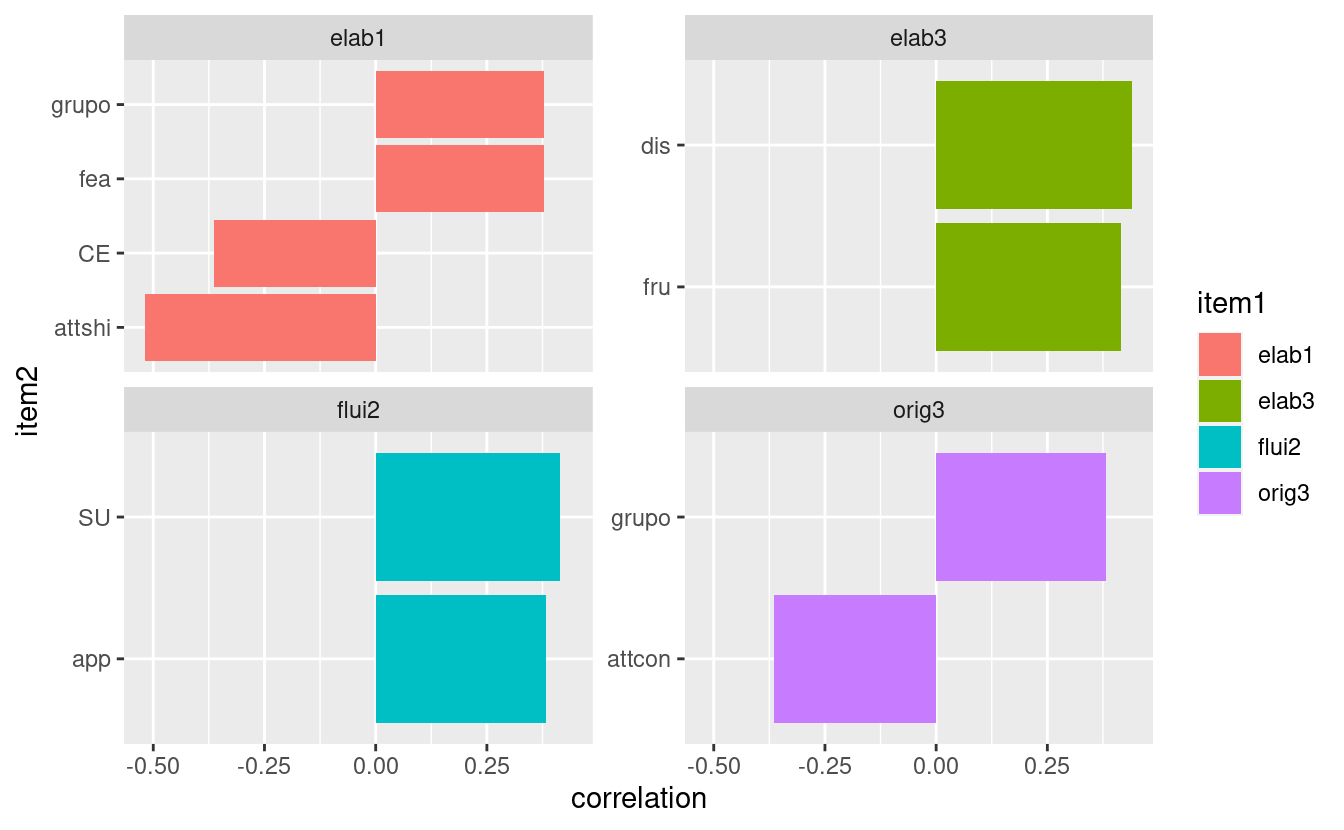
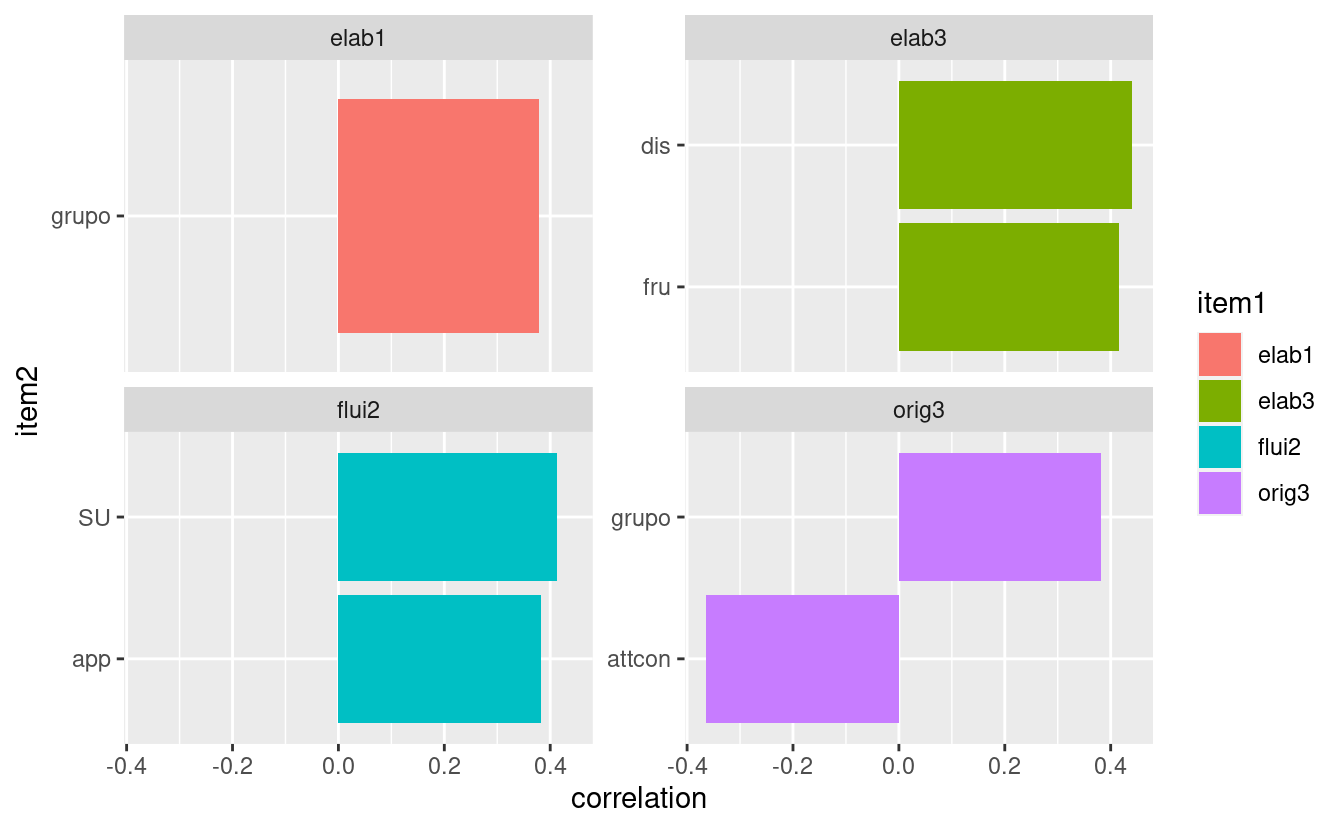
site update

diff --git a/docs/_site/2022/09/06/correlaciones-por-pares/index.html b/docs/_site/2022/09/06/correlaciones-por-pares/index.html
@@ -75,112 +75,39 @@
 
     <div class="article-content">
       <h1 id="paired-correlations">PAIRED CORRELATIONS</h1>
-<h2 id="grouped-by-torrance">Grouped by Torrance</h2>
-<div class="highlight">
-<p><img src="figs/torrance_paired_correlations_graph-1.png" width="700px" style="display: block; margin: auto;" /></p>
-</div>
-<h2 id="grouped-by-temperament-raven-and-other-variables">Grouped by Temperament, Raven and Other Variables</h2>
-<div class="highlight">
-<p><img src="figs/nontor_paired_correlations_graph-1.png" width="700px" style="display: block; margin: auto;" /></p>
-</div>
 <h1 id="correlation-matrix">Correlation Matrix</h1>
 <div class="highlight">
-<pre class='chroma'><code class='language-r' data-lang='r'><span><span class='c'>#&gt;            orig1       elab1      orig2      flui2      elab2      flex2</span></span>
-<span><span class='c'>#&gt; CE            NA 0.048429202 0.40050026 0.60702460 0.38508135 0.84046308</span></span>
-<span><span class='c'>#&gt; AN            NA 0.271613533 0.54860454 0.75701005 0.40000492 0.80196876</span></span>
-<span><span class='c'>#&gt; SU            NA 0.337593888 0.07248363 0.02249742 0.86490853 0.17210113</span></span>
-<span><span class='c'>#&gt; act           NA 0.306321959 0.12479909 0.15343998 0.83510919 0.94768821</span></span>
-<span><span class='c'>#&gt; fru           NA 0.413266984 0.68841655 0.54379053 0.14108578 0.65619386</span></span>
-<span><span class='c'>#&gt; app           NA 0.994075403 0.19152605 0.03679491 0.73596659 0.14006839</span></span>
-<span><span class='c'>#&gt; attfoc        NA 0.630294693 0.60895048 0.79285568 0.73321085 0.73812586</span></span>
-<span><span class='c'>#&gt; attshi        NA 0.003385515 0.23166572 0.11647367 0.56578965 0.22489352</span></span>
-<span><span class='c'>#&gt; attcon        NA 0.058291714 0.30092357 0.29603831 0.57579929 0.36290690</span></span>
-<span><span class='c'>#&gt; dis           NA 0.411367106 0.36217603 0.46978220 0.05203187 0.96134398</span></span>
-<span><span class='c'>#&gt; sth           NA 0.323644160 0.12925173 0.07892281 0.44396298 0.76448800</span></span>
-<span><span class='c'>#&gt; fea           NA 0.039158180 0.68686931 0.94018709 0.46607729 0.55982018</span></span>
-<span><span class='c'>#&gt; hip           NA 0.155905524 0.07951774 0.17371785 0.85283098 0.40986799</span></span>
-<span><span class='c'>#&gt; imp           NA 0.217233423 0.17494475 0.12325237 0.77470473 0.75898155</span></span>
-<span><span class='c'>#&gt; inh           NA 0.232874180 0.39167080 0.54721125 0.14643113 0.85477794</span></span>
-<span><span class='c'>#&gt; lip           NA 0.839533739 0.67739040 0.96962741 0.41579689 0.54570867</span></span>
-<span><span class='c'>#&gt; per           NA 0.564804644 0.36628355 0.06791328 0.70216634 0.23619353</span></span>
-<span><span class='c'>#&gt; sad           NA 0.919715692 0.20581391 0.29448897 0.89658419 0.49094321</span></span>
-<span><span class='c'>#&gt; shy           NA 0.179449276 0.78691623 0.45208589 0.34518483 0.12621222</span></span>
-<span><span class='c'>#&gt; smi           NA 0.132133325 0.62026238 0.99099420 0.08344986 0.77200729</span></span>
-<span><span class='c'>#&gt; escuela       NA 0.178349185 0.88347013 0.63885320 0.33516126 0.78182750</span></span>
-<span><span class='c'>#&gt; grupo         NA 0.038732668 0.55728772 0.44023044 0.21069945 0.92971638</span></span>
-<span><span class='c'>#&gt; edad          NA 0.835019211 0.68492840 0.59497504 0.13414768 0.85493166</span></span>
-<span><span class='c'>#&gt; sexo          NA 0.165770645 0.14336290 0.34829488 0.07131034 0.07720023</span></span>
-<span><span class='c'>#&gt; percentil     NA 0.466851119 0.34203613 0.16266109 0.36784646 0.84414281</span></span>
-<span><span class='c'>#&gt; rango         NA 0.579441803 0.23954922 0.15403184 0.40388678 0.63899268</span></span>
-<span><span class='c'>#&gt; columna_a     NA 0.415248494 0.11784062 0.10125517 0.72288837 0.18369481</span></span>
-<span><span class='c'>#&gt; columna_ab    NA 0.400944734 0.44367726 0.48419530 0.10903801 0.87556575</span></span>
-<span><span class='c'>#&gt; columna_b     NA 0.641550355 0.97328571 0.72555997 0.82705562 0.64977471</span></span>
-<span><span class='c'>#&gt; puntaje       NA 0.525206411 0.27417713 0.22245358 0.22535564 0.54192527</span></span>
-<span><span class='c'>#&gt;                 orig3     flui3      elab3     flex3</span></span>
-<span><span class='c'>#&gt; CE         0.17302705 0.1225536 0.52233121 0.4591893</span></span>
-<span><span class='c'>#&gt; AN         0.49296547 0.6337643 0.18334953 0.3505472</span></span>
-<span><span class='c'>#&gt; SU         0.92144613 0.5515607 0.66788767 0.3954747</span></span>
-<span><span class='c'>#&gt; act        0.69270673 0.7564842 0.72456501 0.5177286</span></span>
-<span><span class='c'>#&gt; fru        0.99606282 0.9596272 0.02227746 0.7471596</span></span>
-<span><span class='c'>#&gt; app        0.33022695 0.3456013 0.44025997 0.9215413</span></span>
-<span><span class='c'>#&gt; attfoc     0.07054985 0.2336345 0.70168885 0.6772719</span></span>
-<span><span class='c'>#&gt; attshi     0.24017888 0.1620745 0.87592565 0.1975753</span></span>
-<span><span class='c'>#&gt; attcon     0.04761170 0.1005084 0.71868478 0.3165394</span></span>
-<span><span class='c'>#&gt; dis        0.35227834 0.6403167 0.01492814 0.2358629</span></span>
-<span><span class='c'>#&gt; sth        0.13911352 0.1868955 0.45988647 0.1668411</span></span>
-<span><span class='c'>#&gt; fea        0.10268227 0.1786334 0.23058040 0.2864963</span></span>
-<span><span class='c'>#&gt; hip        0.72811086 0.4813129 0.81108738 0.6628628</span></span>
-<span><span class='c'>#&gt; imp        0.63573693 0.8203725 0.79324943 0.9381510</span></span>
-<span><span class='c'>#&gt; inh        0.34931492 0.1180668 0.07101536 0.8026334</span></span>
-<span><span class='c'>#&gt; lip        0.84167404 0.7774568 0.49011697 0.6509855</span></span>
-<span><span class='c'>#&gt; per        0.47262187 0.8450693 0.37939627 0.8794740</span></span>
-<span><span class='c'>#&gt; sad        0.49888850 0.5757836 0.71848313 0.7631338</span></span>
-<span><span class='c'>#&gt; shy        0.10593576 0.2315294 0.68219197 0.2550656</span></span>
-<span><span class='c'>#&gt; smi        0.40938715 0.9424463 0.82613677 0.9390234</span></span>
-<span><span class='c'>#&gt; escuela    0.10682878 0.3130760 0.35922559 0.2209900</span></span>
-<span><span class='c'>#&gt; grupo      0.03726370 0.3046541 0.54152140 0.1935974</span></span>
-<span><span class='c'>#&gt; edad       0.94499465 0.1343969 0.24740297 0.4040723</span></span>
-<span><span class='c'>#&gt; sexo       0.65489056 0.3796209 0.15611096 0.6753914</span></span>
-<span><span class='c'>#&gt; percentil  0.87643144 0.4846394 0.16245114 0.9923595</span></span>
-<span><span class='c'>#&gt; rango      0.82840860 0.4424734 0.24950324 0.9565257</span></span>
-<span><span class='c'>#&gt; columna_a  0.74995407 0.5010882 0.40956580 0.7040131</span></span>
-<span><span class='c'>#&gt; columna_ab 0.64468488 0.9835957 0.25398732 0.4286248</span></span>
-<span><span class='c'>#&gt; columna_b  0.57461370 0.6547052 0.64542870 0.8276008</span></span>
-<span><span class='c'>#&gt; puntaje    0.86511985 0.6599027 0.21972738 0.6670841</span></span></code></pre>
-</div>
-<h1 id="p-values-matrix">P-values Matrix</h1>
-<div class="highlight">
-<pre class='chroma'><code class='language-r' data-lang='r'><span><span class='c'>#&gt;            orig1      elab1 orig2     flui2 elab2 flex2      orig3 flui3</span></span>
-<span><span class='c'>#&gt; CE            NA -0.3633421    NA        NA    NA    NA         NA    NA</span></span>
-<span><span class='c'>#&gt; AN            NA         NA    NA        NA    NA    NA         NA    NA</span></span>
-<span><span class='c'>#&gt; SU            NA         NA    NA 0.4152417    NA    NA         NA    NA</span></span>
-<span><span class='c'>#&gt; act           NA         NA    NA        NA    NA    NA         NA    NA</span></span>
-<span><span class='c'>#&gt; fru           NA         NA    NA        NA    NA    NA         NA    NA</span></span>
-<span><span class='c'>#&gt; app           NA         NA    NA 0.3828280    NA    NA         NA    NA</span></span>
-<span><span class='c'>#&gt; attfoc        NA         NA    NA        NA    NA    NA         NA    NA</span></span>
-<span><span class='c'>#&gt; attshi        NA -0.5177472    NA        NA    NA    NA         NA    NA</span></span>
-<span><span class='c'>#&gt; attcon        NA         NA    NA        NA    NA    NA -0.3645813    NA</span></span>
-<span><span class='c'>#&gt; dis           NA         NA    NA        NA    NA    NA         NA    NA</span></span>
-<span><span class='c'>#&gt; sth           NA         NA    NA        NA    NA    NA         NA    NA</span></span>
-<span><span class='c'>#&gt; fea           NA  0.3785062    NA        NA    NA    NA         NA    NA</span></span>
-<span><span class='c'>#&gt; hip           NA         NA    NA        NA    NA    NA         NA    NA</span></span>
-<span><span class='c'>#&gt; imp           NA         NA    NA        NA    NA    NA         NA    NA</span></span>
-<span><span class='c'>#&gt; inh           NA         NA    NA        NA    NA    NA         NA    NA</span></span>
-<span><span class='c'>#&gt; lip           NA         NA    NA        NA    NA    NA         NA    NA</span></span>
-<span><span class='c'>#&gt; per           NA         NA    NA        NA    NA    NA         NA    NA</span></span>
-<span><span class='c'>#&gt; sad           NA         NA    NA        NA    NA    NA         NA    NA</span></span>
-<span><span class='c'>#&gt; shy           NA         NA    NA        NA    NA    NA         NA    NA</span></span>
-<span><span class='c'>#&gt; smi           NA         NA    NA        NA    NA    NA         NA    NA</span></span>
-<span><span class='c'>#&gt; escuela       NA         NA    NA        NA    NA    NA         NA    NA</span></span>
-<span><span class='c'>#&gt; grupo         NA  0.3792686    NA        NA    NA    NA  0.3819533    NA</span></span>
-<span><span class='c'>#&gt; edad          NA         NA    NA        NA    NA    NA         NA    NA</span></span>
-<span><span class='c'>#&gt; sexo          NA         NA    NA        NA    NA    NA         NA    NA</span></span>
-<span><span class='c'>#&gt; percentil     NA         NA    NA        NA    NA    NA         NA    NA</span></span>
-<span><span class='c'>#&gt; rango         NA         NA    NA        NA    NA    NA         NA    NA</span></span>
-<span><span class='c'>#&gt; columna_a     NA         NA    NA        NA    NA    NA         NA    NA</span></span>
-<span><span class='c'>#&gt; columna_ab    NA         NA    NA        NA    NA    NA         NA    NA</span></span>
-<span><span class='c'>#&gt; columna_b     NA         NA    NA        NA    NA    NA         NA    NA</span></span>
-<span><span class='c'>#&gt; puntaje       NA         NA    NA        NA    NA    NA         NA    NA</span></span>
+<pre class='chroma'><code class='language-r' data-lang='r'><span><span class='c'>#&gt;            orig1     elab1 orig2     flui2 elab2 flex2      orig3 flui3</span></span>
+<span><span class='c'>#&gt; CE            NA        NA    NA        NA    NA    NA         NA    NA</span></span>
+<span><span class='c'>#&gt; AN            NA        NA    NA        NA    NA    NA         NA    NA</span></span>
+<span><span class='c'>#&gt; SU            NA        NA    NA 0.4133396    NA    NA         NA    NA</span></span>
+<span><span class='c'>#&gt; act           NA        NA    NA        NA    NA    NA         NA    NA</span></span>
+<span><span class='c'>#&gt; fru           NA        NA    NA        NA    NA    NA         NA    NA</span></span>
+<span><span class='c'>#&gt; app           NA        NA    NA 0.3828280    NA    NA         NA    NA</span></span>
+<span><span class='c'>#&gt; attfoc        NA        NA    NA        NA    NA    NA         NA    NA</span></span>
+<span><span class='c'>#&gt; attshi        NA        NA    NA        NA    NA    NA         NA    NA</span></span>
+<span><span class='c'>#&gt; attcon        NA        NA    NA        NA    NA    NA -0.3645813    NA</span></span>
+<span><span class='c'>#&gt; dis           NA        NA    NA        NA    NA    NA         NA    NA</span></span>
+<span><span class='c'>#&gt; sth           NA        NA    NA        NA    NA    NA         NA    NA</span></span>
+<span><span class='c'>#&gt; fea           NA        NA    NA        NA    NA    NA         NA    NA</span></span>
+<span><span class='c'>#&gt; hip           NA        NA    NA        NA    NA    NA         NA    NA</span></span>
+<span><span class='c'>#&gt; imp           NA        NA    NA        NA    NA    NA         NA    NA</span></span>
+<span><span class='c'>#&gt; inh           NA        NA    NA        NA    NA    NA         NA    NA</span></span>
+<span><span class='c'>#&gt; lip           NA        NA    NA        NA    NA    NA         NA    NA</span></span>
+<span><span class='c'>#&gt; per           NA        NA    NA        NA    NA    NA         NA    NA</span></span>
+<span><span class='c'>#&gt; sad           NA        NA    NA        NA    NA    NA         NA    NA</span></span>
+<span><span class='c'>#&gt; shy           NA        NA    NA        NA    NA    NA         NA    NA</span></span>
+<span><span class='c'>#&gt; smi           NA        NA    NA        NA    NA    NA         NA    NA</span></span>
+<span><span class='c'>#&gt; escuela       NA        NA    NA        NA    NA    NA         NA    NA</span></span>
+<span><span class='c'>#&gt; grupo         NA 0.3792686    NA        NA    NA    NA  0.3819533    NA</span></span>
+<span><span class='c'>#&gt; edad          NA        NA    NA        NA    NA    NA         NA    NA</span></span>
+<span><span class='c'>#&gt; sexo          NA        NA    NA        NA    NA    NA         NA    NA</span></span>
+<span><span class='c'>#&gt; percentil     NA        NA    NA        NA    NA    NA         NA    NA</span></span>
+<span><span class='c'>#&gt; rango         NA        NA    NA        NA    NA    NA         NA    NA</span></span>
+<span><span class='c'>#&gt; columna_a     NA        NA    NA        NA    NA    NA         NA    NA</span></span>
+<span><span class='c'>#&gt; columna_ab    NA        NA    NA        NA    NA    NA         NA    NA</span></span>
+<span><span class='c'>#&gt; columna_b     NA        NA    NA        NA    NA    NA         NA    NA</span></span>
+<span><span class='c'>#&gt; puntaje       NA        NA    NA        NA    NA    NA         NA    NA</span></span>
 <span><span class='c'>#&gt;                elab3 flex3</span></span>
 <span><span class='c'>#&gt; CE                NA    NA</span></span>
 <span><span class='c'>#&gt; AN                NA    NA</span></span>
@@ -212,6 +139,80 @@
 <span><span class='c'>#&gt; columna_ab        NA    NA</span></span>
 <span><span class='c'>#&gt; columna_b         NA    NA</span></span>
 <span><span class='c'>#&gt; puntaje           NA    NA</span></span></code></pre>
+</div>
+<h1 id="p-values-matrix">P-values Matrix</h1>
+<div class="highlight">
+<pre class='chroma'><code class='language-r' data-lang='r'><span><span class='c'>#&gt;            orig1      elab1      orig2      flui2      elab2      flex2</span></span>
+<span><span class='c'>#&gt; CE            NA 0.15039290 0.38664151 0.46844047 0.26788309 0.63704423</span></span>
+<span><span class='c'>#&gt; AN            NA 0.14778990 0.46366589 0.64176916 0.32231741 0.93298263</span></span>
+<span><span class='c'>#&gt; SU            NA 0.53646028 0.08766905 0.02318568 0.79392837 0.15129912</span></span>
+<span><span class='c'>#&gt; act           NA 0.30632196 0.12479909 0.15343998 0.83510919 0.94768821</span></span>
+<span><span class='c'>#&gt; fru           NA 0.41326698 0.68841655 0.54379053 0.14108578 0.65619386</span></span>
+<span><span class='c'>#&gt; app           NA 0.99407540 0.19152605 0.03679491 0.73596659 0.14006839</span></span>
+<span><span class='c'>#&gt; attfoc        NA 0.63029469 0.60895048 0.79285568 0.73321085 0.73812586</span></span>
+<span><span class='c'>#&gt; attshi        NA 0.24656434 0.33738662 0.24438271 0.66214560 0.29148602</span></span>
+<span><span class='c'>#&gt; attcon        NA 0.05829171 0.30092357 0.29603831 0.57579929 0.36290690</span></span>
+<span><span class='c'>#&gt; dis           NA 0.41136711 0.36217603 0.46978220 0.05203187 0.96134398</span></span>
+<span><span class='c'>#&gt; sth           NA 0.49072723 0.31384801 0.18437525 0.20615759 0.96859184</span></span>
+<span><span class='c'>#&gt; fea           NA 0.09211158 0.97231899 0.73869579 0.95841071 0.56898341</span></span>
+<span><span class='c'>#&gt; hip           NA 0.15590552 0.07951774 0.17371785 0.85283098 0.40986799</span></span>
+<span><span class='c'>#&gt; imp           NA 0.66786199 0.76786527 0.58214651 0.09156974 0.80192122</span></span>
+<span><span class='c'>#&gt; inh           NA 0.23287418 0.39167080 0.54721125 0.14643113 0.85477794</span></span>
+<span><span class='c'>#&gt; lip           NA 0.66222324 0.69640815 0.98808233 0.36761358 0.59249052</span></span>
+<span><span class='c'>#&gt; per           NA 0.61483124 0.52262160 0.56740011 0.41857896 0.88925860</span></span>
+<span><span class='c'>#&gt; sad           NA 0.91971569 0.20581391 0.29448897 0.89658419 0.49094321</span></span>
+<span><span class='c'>#&gt; shy           NA 0.17944928 0.78691623 0.45208589 0.34518483 0.12621222</span></span>
+<span><span class='c'>#&gt; smi           NA 0.13213332 0.62026238 0.99099420 0.08344986 0.77200729</span></span>
+<span><span class='c'>#&gt; escuela       NA 0.17834919 0.88347013 0.63885320 0.33516126 0.78182750</span></span>
+<span><span class='c'>#&gt; grupo         NA 0.03873267 0.55728772 0.44023044 0.21069945 0.92971638</span></span>
+<span><span class='c'>#&gt; edad          NA 0.83501921 0.68492840 0.59497504 0.13414768 0.85493166</span></span>
+<span><span class='c'>#&gt; sexo          NA 0.16577065 0.14336290 0.34829488 0.07131034 0.07720023</span></span>
+<span><span class='c'>#&gt; percentil     NA 0.46685112 0.34203613 0.16266109 0.36784646 0.84414281</span></span>
+<span><span class='c'>#&gt; rango         NA 0.57944180 0.23954922 0.15403184 0.40388678 0.63899268</span></span>
+<span><span class='c'>#&gt; columna_a     NA 0.41524849 0.11784062 0.10125517 0.72288837 0.18369481</span></span>
+<span><span class='c'>#&gt; columna_ab    NA 0.40094473 0.44367726 0.48419530 0.10903801 0.87556575</span></span>
+<span><span class='c'>#&gt; columna_b     NA 0.64155035 0.97328571 0.72555997 0.82705562 0.64977471</span></span>
+<span><span class='c'>#&gt; puntaje       NA 0.52520641 0.27417713 0.22245358 0.22535564 0.54192527</span></span>
+<span><span class='c'>#&gt;                 orig3     flui3      elab3     flex3</span></span>
+<span><span class='c'>#&gt; CE         0.15887853 0.1124744 0.22761519 0.4190169</span></span>
+<span><span class='c'>#&gt; AN         0.49577673 0.6519436 0.21396669 0.3072149</span></span>
+<span><span class='c'>#&gt; SU         0.89849533 0.5376285 0.51136082 0.2891203</span></span>
+<span><span class='c'>#&gt; act        0.69270673 0.7564842 0.72456501 0.5177286</span></span>
+<span><span class='c'>#&gt; fru        0.99606282 0.9596272 0.02227746 0.7471596</span></span>
+<span><span class='c'>#&gt; app        0.33022695 0.3456013 0.44025997 0.9215413</span></span>
+<span><span class='c'>#&gt; attfoc     0.07054985 0.2336345 0.70168885 0.6772719</span></span>
+<span><span class='c'>#&gt; attshi     0.41905168 0.3331625 0.36909630 0.1299558</span></span>
+<span><span class='c'>#&gt; attcon     0.04761170 0.1005084 0.71868478 0.3165394</span></span>
+<span><span class='c'>#&gt; dis        0.35227834 0.6403167 0.01492814 0.2358629</span></span>
+<span><span class='c'>#&gt; sth        0.38356921 0.2564088 0.13341422 0.2359772</span></span>
+<span><span class='c'>#&gt; fea        0.54188976 0.3789639 0.39887258 0.9509033</span></span>
+<span><span class='c'>#&gt; hip        0.72811086 0.4813129 0.81108738 0.6628628</span></span>
+<span><span class='c'>#&gt; imp        0.52396982 0.4954654 0.27479246 0.8553699</span></span>
+<span><span class='c'>#&gt; inh        0.34931492 0.1180668 0.07101536 0.8026334</span></span>
+<span><span class='c'>#&gt; lip        0.87668093 0.7993921 0.50746302 0.6353478</span></span>
+<span><span class='c'>#&gt; per        0.83374349 0.5790029 0.61196394 0.8087634</span></span>
+<span><span class='c'>#&gt; sad        0.49888850 0.5757836 0.71848313 0.7631338</span></span>
+<span><span class='c'>#&gt; shy        0.10593576 0.2315294 0.68219197 0.2550656</span></span>
+<span><span class='c'>#&gt; smi        0.40938715 0.9424463 0.82613677 0.9390234</span></span>
+<span><span class='c'>#&gt; escuela    0.10682878 0.3130760 0.35922559 0.2209900</span></span>
+<span><span class='c'>#&gt; grupo      0.03726370 0.3046541 0.54152140 0.1935974</span></span>
+<span><span class='c'>#&gt; edad       0.94499465 0.1343969 0.24740297 0.4040723</span></span>
+<span><span class='c'>#&gt; sexo       0.65489056 0.3796209 0.15611096 0.6753914</span></span>
+<span><span class='c'>#&gt; percentil  0.87643144 0.4846394 0.16245114 0.9923595</span></span>
+<span><span class='c'>#&gt; rango      0.82840860 0.4424734 0.24950324 0.9565257</span></span>
+<span><span class='c'>#&gt; columna_a  0.74995407 0.5010882 0.40956580 0.7040131</span></span>
+<span><span class='c'>#&gt; columna_ab 0.64468488 0.9835957 0.25398732 0.4286248</span></span>
+<span><span class='c'>#&gt; columna_b  0.57461370 0.6547052 0.64542870 0.8276008</span></span>
+<span><span class='c'>#&gt; puntaje    0.86511985 0.6599027 0.21972738 0.6670841</span></span></code></pre>
+</div>
+<h1 id="graphics">GRAPHICS</h1>
+<h2 id="grouped-by-torrance">Grouped by Torrance</h2>
+<div class="highlight">
+<p><img src="figs/torrance_paired_correlations_graph-1.png" width="700px" style="display: block; margin: auto;" /></p>
+</div>
+<h2 id="grouped-by-temperament-raven-and-other-variables">Grouped by Temperament, Raven and Other Variables</h2>
+<div class="highlight">
+<p><img src="figs/nontor_paired_correlations_graph-1.png" width="700px" style="display: block; margin: auto;" /></p>
 </div>
 
     </div>
